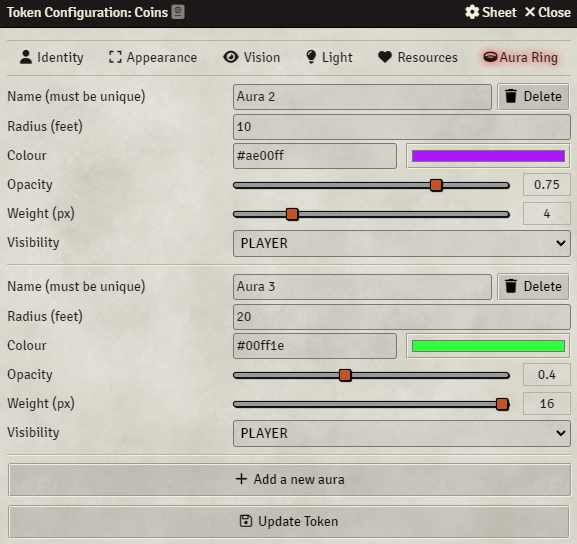
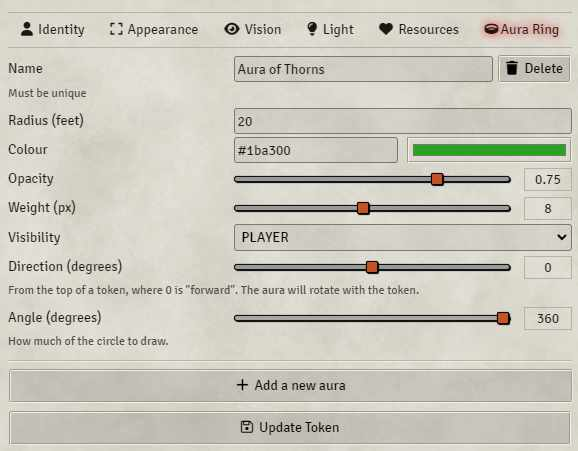
Added aura rotation, updated readme

Changed region(s): [[0.0, 0.0, 1.0, 0.9933]]

diff --git a/Config.js b/Config.js
@@ -68,6 +68,15 @@ export class Config
         this.resizeConfigForm(button);
     }
 
+    angle(key, aura)
+    {
+        return this.form.group(
+            'Angle (degrees)',
+            this.form.range(key, aura, 'angle', 360, 0, 5),
+            'How much of the circle to draw.',
+        );
+    }
+
     colour(key, aura)
     {
         return this.form.group(
@@ -88,6 +97,8 @@ export class Config
             this.opacity(key, aura),
             this.weight(key, aura),
             this.visibility(key, aura),
+            this.direction(key, aura),
+            this.angle(key, aura),
             this.form.break(),
         );
 
@@ -129,6 +140,15 @@ export class Config
         return configWindow;
     }
 
+    direction(key, aura)
+    {
+        return this.form.group(
+            'Direction (degrees)',
+            this.form.range(key, aura, 'direction', 180, -180, 5),
+            'From the top of a token, where 0 is "forward". The aura will rotate with the token.',
+        );
+    }
+
     markDelete(input)
     {
         input.value = "yes";
@@ -153,8 +173,9 @@ export class Config
         button.addEventListener('mouseup', this.markDelete.bind(this, hidden));
 
         return this.form.group(
-            'Name (must be unique)',
+            'Name',
             this.form.fields(input, button, hidden),
+            'Must be unique',
         );
     }
 

diff --git a/Aura.js b/Aura.js
@@ -31,8 +31,10 @@ export class Aura
     static defaultSettings(name)
     {
         return {
+            angle: 360,
             colour: '#000000',
             delete: 'no',
+            direction: 0,
             name: name,
             opacity: 0.5,
             radius: 0,
@@ -214,9 +216,20 @@ export class Aura
             }
         }
         
-        this.pixiGraphics
-            .lineStyle(aura.weight, aura.colour, auraOpacity, 0)
-            .drawCircle(auraX, auraY, auraRadius);
+        this.pixiGraphics.lineStyle(aura.weight, aura.colour, auraOpacity, 0)
+
+        if (aura.angle === 360) {
+            this.pixiGraphics.drawCircle(auraX, auraY, auraRadius);
+        } else {
+            const radiansPerDegree = Math.PI / 180;
+            const direction = (-90 + aura.direction + this.simpleToken.document.rotation) - (aura.angle / 2);
+            const startAngle = direction * radiansPerDegree;
+            const endAngle = startAngle + (aura.angle * radiansPerDegree);
+
+            this.pixiGraphics.startPoly();
+            this.pixiGraphics.arc(auraX, auraY, auraRadius, startAngle, endAngle);
+            this.pixiGraphics.finishPoly();
+        }
     }
 
     shouldDraw()

diff --git a/Form.js b/Form.js
@@ -48,12 +48,26 @@ export class Form
         return fields;
     }
 
-    group(label, input)
+    group(label, input, hint = null)
     {
         const formGroup = document.createElement('div');
         formGroup.classList.add('form-group');
         formGroup.append(this.label(label), input);
+
+        if (hint !== null) {
+            formGroup.append(this.hint(hint));
+        }
+
         return formGroup;
+    }
+
+    hint(text)
+    {
+        const hint = document.createElement('p');
+        hint.classList.add('hint');
+        hint.innerText = text;
+
+        return hint;
     }
 
     icon(name)

diff --git a/README.md b/README.md
@@ -2,7 +2,7 @@
 
 A simple module for Foundry VTT which adds outlined aura rings to a token.
 
-![Game master view](gm.jpg)
+![How token aura rings appear to the game master](gm.jpg)
 
 Inspired by the [Token Auras](https://foundryvtt.com/packages/token-auras) add-on.
 
@@ -14,7 +14,7 @@ Aura rings are calculated as an emanation, based on the [Pathfinder 2nd Edition 
 
 This means that the range of the aura ring is calculated from the edge of the token, instead of the centre.
 
-![Player view](player.jpg)
+![How token aura rings appear to players](player.jpg)
 
 Visibility of aura rings are obscured by fog-of-war, and hidden entirely when the viewing player is unable to see the token from which the aura rings are being emitted.
 
@@ -32,13 +32,33 @@ https://raw.githubusercontent.com/AnthonyEdmonds/token-aura-ring/main/module.jso
 
 Once enabled, you can add and configure aura rings from the "Aura Ring" tab on any token settings page.
 
-![Token configuration](config.jpg)
+![An example of a token aura ring configuration](config.jpg)
 
 From there you can set the radius, colour, opacity, weight, and visibility of the aura ring.
+
+### Multiple aura rings
 
 You can add as many auras to a single token as you like by pressing the "Add a new aura" button at the bottom of the settings tab.
 
 To remove an aura ring, set the radius to zero, the visibility to "NONE", or press the "Delete" button.
+
+### Angled aura rings
+
+You can adjust the "Direction" and "Angle" settings to create arcs instead of circles.
+
+![An example of a token with arcs instead of circles](arc.jpg)
+
+The "Direction" setting rotates the arc around the token.
+
+The "Angle" setting determines how much of the arc to draw.
+
+Arcs are drawn relative to the top of the token, where a direction of "0" is considered facing forward.
+
+The arc is centralised around its direction, where an angle of "90" would have 45 degrees on either side.
+
+When you rotate the token the arc will rotate with it.
+
+Setting the "Angle" to "360" will draw a complete circle.
 
 ## Issues
 
